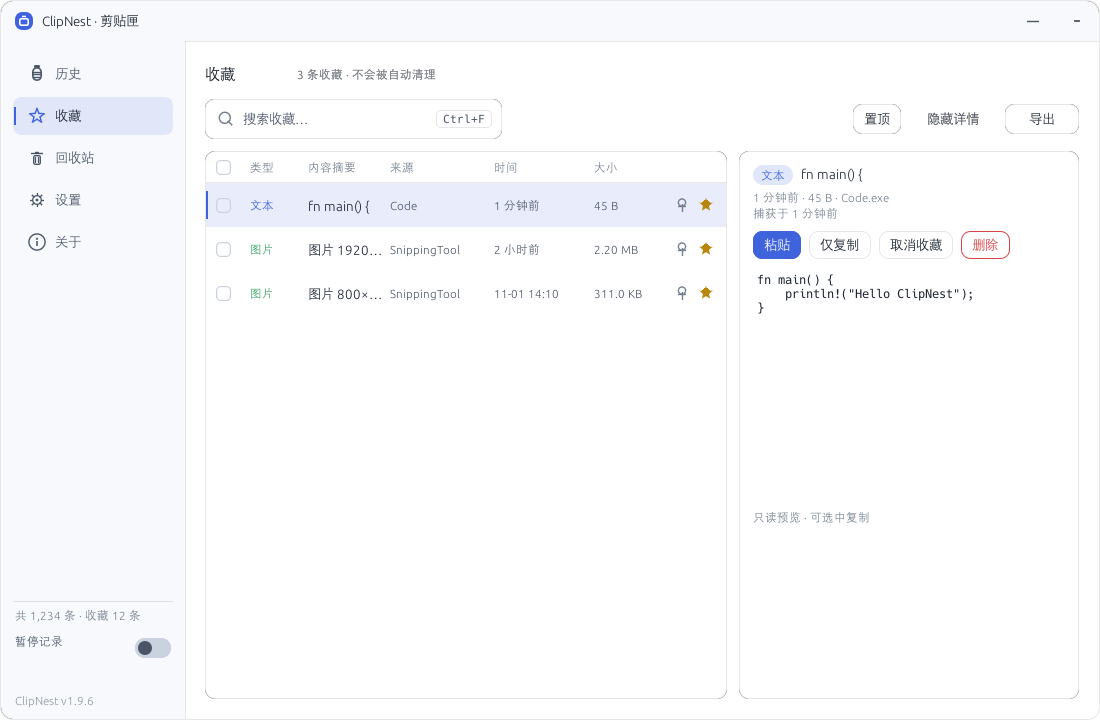
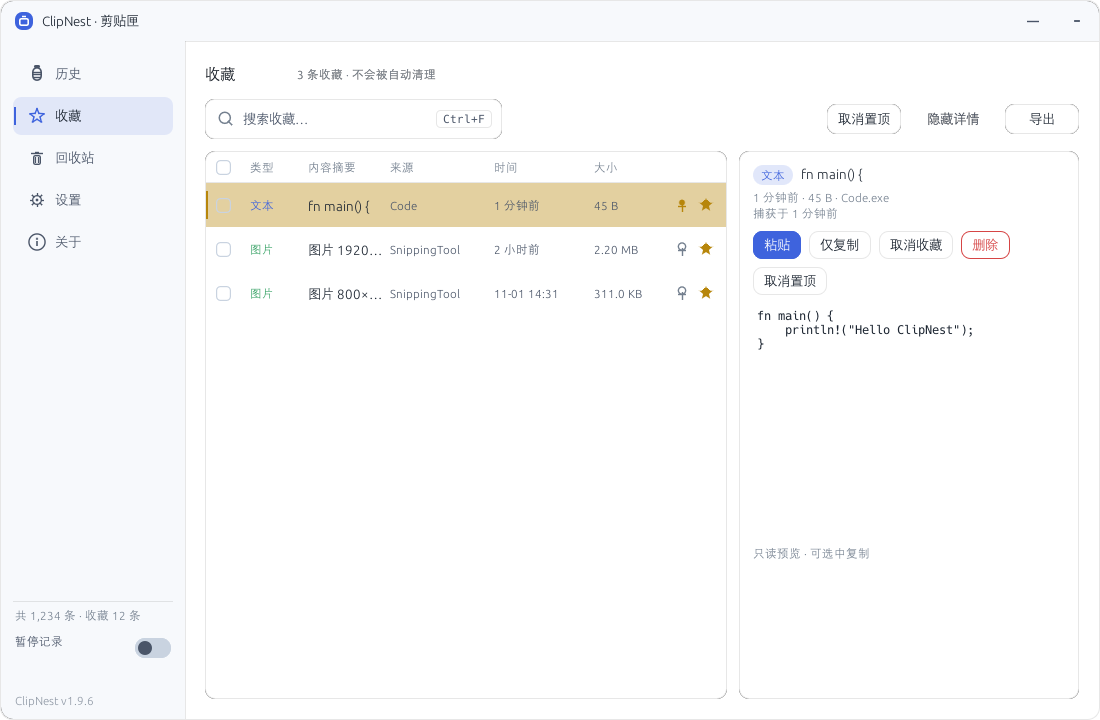
fix(ui): keep search focus after IME, expose pin actions, mark pinned rows

diff --git a/src/ui/pages/history.rs b/src/ui/pages/history.rs
@@ -405,22 +405,36 @@ fn table(
                     );
                     let hovered = resp.hovered();
                     if selected_single || in_multi {
-                        ui.painter().rect_filled(
-                            row_rect,
-                            CornerRadius::ZERO,
-                            theme::accent_fill(),
-                        );
+                        let fill = if item.pinned {
+                            theme::pinned_fill_strong()
+                        } else {
+                            theme::accent_fill()
+                        };
+                        ui.painter()
+                            .rect_filled(row_rect, CornerRadius::ZERO, fill);
                         if selected_single {
                             let bar = Rect::from_min_max(
                                 Pos2::new(row_rect.left(), row_rect.top() + 8.0),
                                 Pos2::new(row_rect.left() + 2.0, row_rect.bottom() - 8.0),
                             );
-                            ui.painter()
-                                .rect_filled(bar, CornerRadius::same(1), theme::accent());
+                            ui.painter().rect_filled(
+                                bar,
+                                CornerRadius::same(1),
+                                if item.pinned {
+                                    theme::pinned()
+                                } else {
+                                    theme::accent()
+                                },
+                            );
                         }
                     } else if hovered {
                         ui.painter()
                             .rect_filled(row_rect, CornerRadius::ZERO, theme::hover_fill());
+                    }
+                    // 置顶行始终叠一层金色底，和普通收藏行区分。
+                    if item.pinned {
+                        ui.painter()
+                            .rect_filled(row_rect, CornerRadius::ZERO, theme::pinned_fill());
                     }
                     paint_table_row(
                         state, ui, row_rect, &item, &cols, pin_mode, in_multi, actions,
@@ -628,7 +642,9 @@ fn paint_table_row(
             &painter,
             pin_center,
             7.0,
-            if item.pinned || pin_resp.hovered() {
+            if item.pinned {
+                theme::pinned()
+            } else if pin_resp.hovered() {
                 theme::accent()
             } else {
                 theme::text_weak()
@@ -778,8 +794,42 @@ fn detail_panel(
         x += w + 8.0;
     }
 
+    // 收藏项单独一行放置顶按钮：动作行已有 4 个按钮，再挤会溢出详情面板。
+    let mut extra_h = 0.0;
+    if item.favorited {
+        let label = if item.pinned {
+            "取消置顶"
+        } else {
+            "置顶此条"
+        };
+        let w = paint::text_width(ui, label, theme::font_body()) + 22.0;
+        let rect = Rect::from_min_size(
+            Pos2::new(inner.left(), btn_y + btn_h + 8.0),
+            Vec2::new(w, btn_h),
+        );
+        if widgets::button_at(ui, rect, label, widgets::ButtonKind::Secondary).clicked() {
+            let pinned = !item.pinned;
+            actions.push(UiAction::Pin {
+                id: item.id,
+                pinned,
+            });
+            if let Some(current) = state.items.iter_mut().find(|i| i.id == item.id) {
+                current.pinned = pinned;
+            }
+            state.toast(if pinned {
+                "已置顶"
+            } else {
+                "已取消置顶"
+            });
+        }
+        extra_h = btn_h + 8.0;
+    }
+
     // 内容区
-    let content_rect = Rect::from_min_max(Pos2::new(inner.left(), btn_y + btn_h + 12.0), inner.max);
+    let content_rect = Rect::from_min_max(
+        Pos2::new(inner.left(), btn_y + btn_h + 12.0 + extra_h),
+        inner.max,
+    );
     ui.scope_builder(UiBuilder::new().max_rect(content_rect), |ui| {
         egui::ScrollArea::vertical()
             .id_salt("detail_scroll")

diff --git a/src/ui/theme.rs b/src/ui/theme.rs
@@ -227,6 +227,18 @@ pub fn success() -> Color32 {
 pub fn pinned() -> Color32 {
     palette().pinned
 }
+
+/// 置顶行的特殊底色：低透明度金色，叠在普通/选中/悬停底色之上。
+pub fn pinned_fill() -> Color32 {
+    let p = pinned();
+    Color32::from_rgba_unmultiplied(p.r(), p.g(), p.b(), 38)
+}
+
+/// 置顶且被选中时更明显的金色底，避免选中蓝把这些行的置顶标记盖掉。
+pub fn pinned_fill_strong() -> Color32 {
+    let p = pinned();
+    Color32::from_rgba_unmultiplied(p.r(), p.g(), p.b(), 72)
+}
 fn card_alpha() -> u8 {
     if !glass_enabled() {
         return 255;
@@ -699,6 +711,8 @@ mod tests {
         assert_eq!(danger(), Color32::from_rgb(0xFF, 0x6B, 0x6B));
         assert_eq!(success(), Color32::from_rgb(0x4A, 0xDE, 0x80));
         assert_eq!(pinned(), Color32::from_rgb(0xF5, 0xC4, 0x51));
+        assert_eq!(pinned_fill().a(), 38);
+        assert_eq!(pinned_fill_strong().a(), 72);
         assert_eq!(selection(), Color32::from_rgb(0x0F, 0x76, 0x6E));
         assert_eq!(selection_bar(), Color32::from_rgb(0x2D, 0xD4, 0xBF));
         assert_eq!(selection_text(), Color32::WHITE);

diff --git a/src/ui.rs b/src/ui.rs
@@ -355,6 +355,10 @@ impl UiState {
             page,
             ManagerPage::History | ManagerPage::Favorites | ManagerPage::Trash
         ) {
+            // 管理台列表默认选中第一行，工具栏的「置顶 / 取消置顶」等动作才有明确目标。
+            if self.selected.is_none() {
+                self.selected = Some(0);
+            }
             self.schedule_search(true);
         }
     }
@@ -792,6 +796,9 @@ impl UiState {
             page,
             ManagerPage::History | ManagerPage::Favorites | ManagerPage::Trash
         ) {
+            if self.selected.is_none() {
+                self.selected = Some(0);
+            }
             self.schedule_search(true);
         }
         actions.push(UiAction::SelectManagerPage(page));

diff --git a/src/ui/preview.rs b/src/ui/preview.rs
@@ -542,7 +542,7 @@ fn files_item(id: i64, files: &[(&str, &str, u64, bool)], app: &str, minutes_ago
 
 /// 一份覆盖三种类型、不同时间/来源/收藏状态的演示数据。
 fn fake_items() -> Vec<ClipItem> {
-    vec![
+    let mut items = vec![
         text_item(
             1,
             "fn main() {\n    println!(\"Hello ClipNest\");\n}",
@@ -677,7 +677,12 @@ fn fake_items() -> Vec<ClipItem> {
             60 * 200,
             false,
         ),
-    ]
+    ];
+    // 预置一条置顶收藏，用于展示置顶行底色与「取消置顶」按钮。
+    if let Some(first) = items.first_mut() {
+        first.pinned = true;
+    }
+    items
 }
 
 /// 生成一张 96×96 的演示缩略图（模拟截图内容）。

diff --git a/src/ui/picker.rs b/src/ui/picker.rs
@@ -117,6 +117,12 @@ pub(crate) fn show(
         );
         state.search_focus = false;
         state.search_focused = out.text_response.has_focus();
+        // 输入法 Commit 同一帧，egui 可能因 Enter 让搜索框失焦；主动收回焦点。
+        if ime_event_this_frame {
+            out.text_response.request_focus();
+            state.search_focus = true;
+            state.search_focused = true;
+        }
         // 输入法组合中不搜索：等候选字上屏（Commit）后的下一帧再查。
         if (out.changed || out.cleared) && !state.ime_composing {
             state.schedule_search(false);

diff --git a/src/ui/tests.rs b/src/ui/tests.rs
@@ -42,6 +42,17 @@ fn new_state_has_pending_initial_query() {
 }
 
 #[test]
+fn enter_manager_selects_first_row_for_list_pages() {
+    let mut s = state();
+    s.selected = None;
+    s.enter_manager(ManagerPage::Favorites);
+    assert_eq!(s.selected, Some(0), "收藏页默认选中首行，置顶按钮才能出现");
+    s.selected = None;
+    s.enter_manager(ManagerPage::Settings);
+    assert_eq!(s.selected, None, "设置页不需要行选中");
+}
+
+#[test]
 fn apply_page_filters_stale_generation() {
     let mut s = state();
     s.active_gen = 5;

diff --git a/docs/ACCEPTANCE-RESULT.md b/docs/ACCEPTANCE-RESULT.md
@@ -560,3 +560,22 @@
 - `cargo test --release` **154 passed / 0 failed / 1 ignored**；`cargo build --release` 0 warnings。
 - 视觉：`docs/screenshots/picker-toast-light.png`（浅色主题下 Toast 文字为浅色）、`docs/screenshots/manager-settings.png` / `manager-settings-light.png`（三种选中配色）、`docs/screenshots/manager-favorites.png`（收藏页工具栏「置顶 / 取消置顶」按钮）。
 - 截图：`docs/screenshots/manager-settings.png`、`manager-settings-light.png`、`manager-favorites.png`、`picker.png` 更新为 v1.9.6。
+
+
+---
+
+## 25. v1.9.7（2026-11-04，置顶底色 / 置顶按钮 / 输入法焦点）
+
+### 用户反馈
+- 中文输入法回车问题解决了，但回车后搜索框没有焦点，无法继续输入。
+- 收藏列表看不到「置顶 / 取消置顶」按钮。
+- 置顶内容需要特殊背景色标记。
+
+### 根因与修复
+- 输入法 Commit 的同一帧，egui 可能因 Enter 让搜索框失焦；在 `src/ui/picker.rs` 检测到 IME 事件的帧主动 `request_focus()`，并把 `search_focus` 延续一帧，确保上屏后仍可继续输入。
+- 收藏页首次进入时 `selected` 可能为空，工具栏置顶按钮按“选中项”条件渲染而消失。`src/ui.rs::enter_manager` / `go_manager_page` 现在为列表页默认选中首行；`src/ui/pages/history.rs` 详情面板新增独立「置顶此条 / 取消置顶」按钮，工具栏按钮保留。
+- 置顶缺少视觉标记。`src/ui/theme.rs` 新增 `pinned_fill()`（金色 38 alpha）与 `pinned_fill_strong()`（金色 72 alpha）；`history.rs` 置顶行始终叠金色底，选中时用更强金色并保留金色左侧竖条；行内置顶图标置顶时改为金色。
+
+### 校验
+- `cargo test --release`：**155 passed / 0 failed / 1 ignored**。
+- 截图：`docs/screenshots/manager-favorites.png`（浅色主题，置顶行金色底 + 工具栏/详情面板置顶按钮）。

diff --git a/README.md b/README.md
@@ -234,6 +234,7 @@ clipnest.exe（单进程常驻）
 
 ## 更新记录
 
+- **v1.9.7**：**置顶可见性与输入法焦点修复**。置顶行使用金色特殊底色（选中时也保留），收藏星旁的置顶图标同步改为金色；收藏页进入时默认选中首行，工具栏「置顶 / 取消置顶」不再因无选中而消失，详情面板也增加独立的置顶按钮；修复中文输入法上屏回车后搜索框失焦、无法继续输入的问题，上屏帧主动收回焦点。
 - **v1.9.6**：**体验修复与配色可选**。删除提示 Toast 固定为浅色文字，浅色主题下不再黑字压深底；收藏页工具栏新增可见的「置顶 / 取消置顶」按钮，不必每次右键；修复中文输入法拼音尚未上屏就触发搜索/回车粘贴的问题（IME 组合期间不路由 Enter、不刷新搜索，上屏后才搜索）；外观新增「选中配色」，可在玉石青绿（默认）、靛蓝、琥珀三种强调色间切换，候选窗选中行/左侧竖条/过滤胶囊同步生效。
 - **v1.9.5**：**收藏与置顶解耦**。收藏只打星，不再自动置顶；收藏页新增独立「置顶」按钮/菜单，置顶只影响收藏列表排序，历史与候选窗保持最近复制顺序。收藏过滤移到最左（收藏 → 全部 → 文本 → 图片 → 文件，默认全部）；SQLite schema v3 自动迁移，旧收藏标记转为收藏并取消历史自动置顶。
 - **v1.9.4**：候选窗选中色由蓝色改为**玉石青绿**：选中行改为半透明青绿底 + 亮青绿竖条/序号，过滤胶囊选中态同步改为深青绿实色，避免深色主题下蓝底白字发闷、浅色主题下蓝紫偏灰；选中文字保持白色/深色高对比，磨砂透明度不变。
